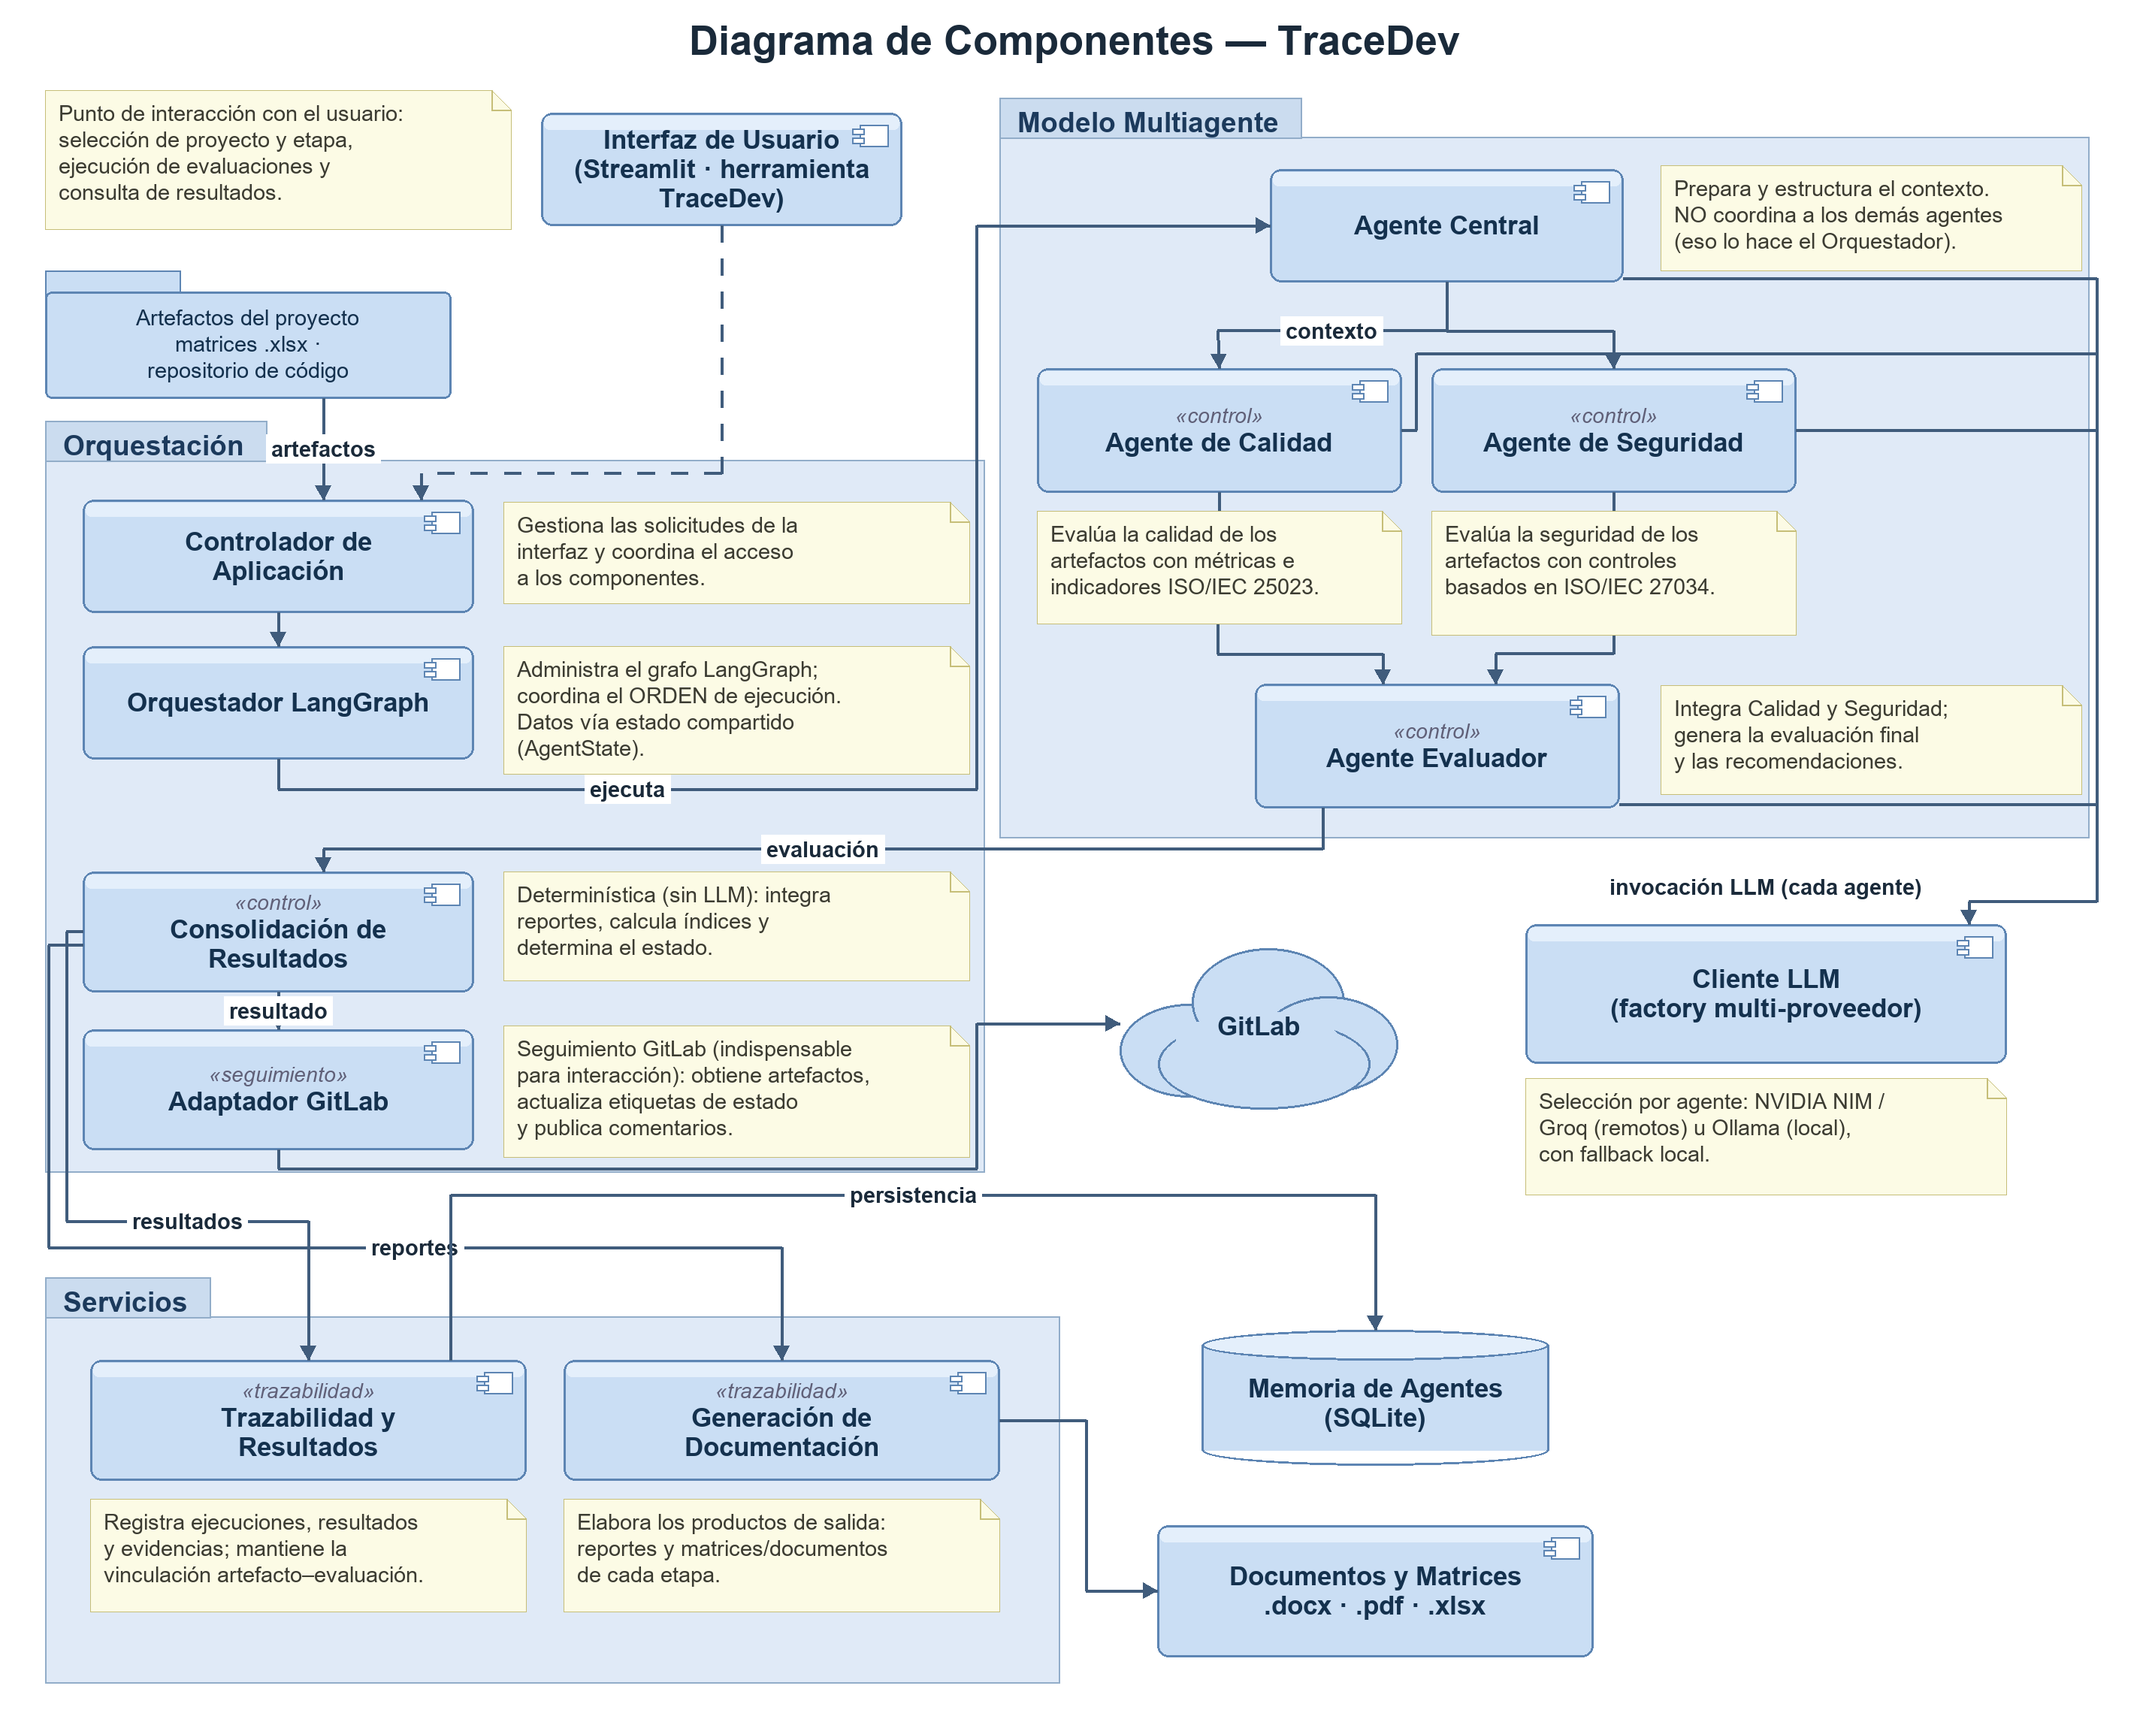
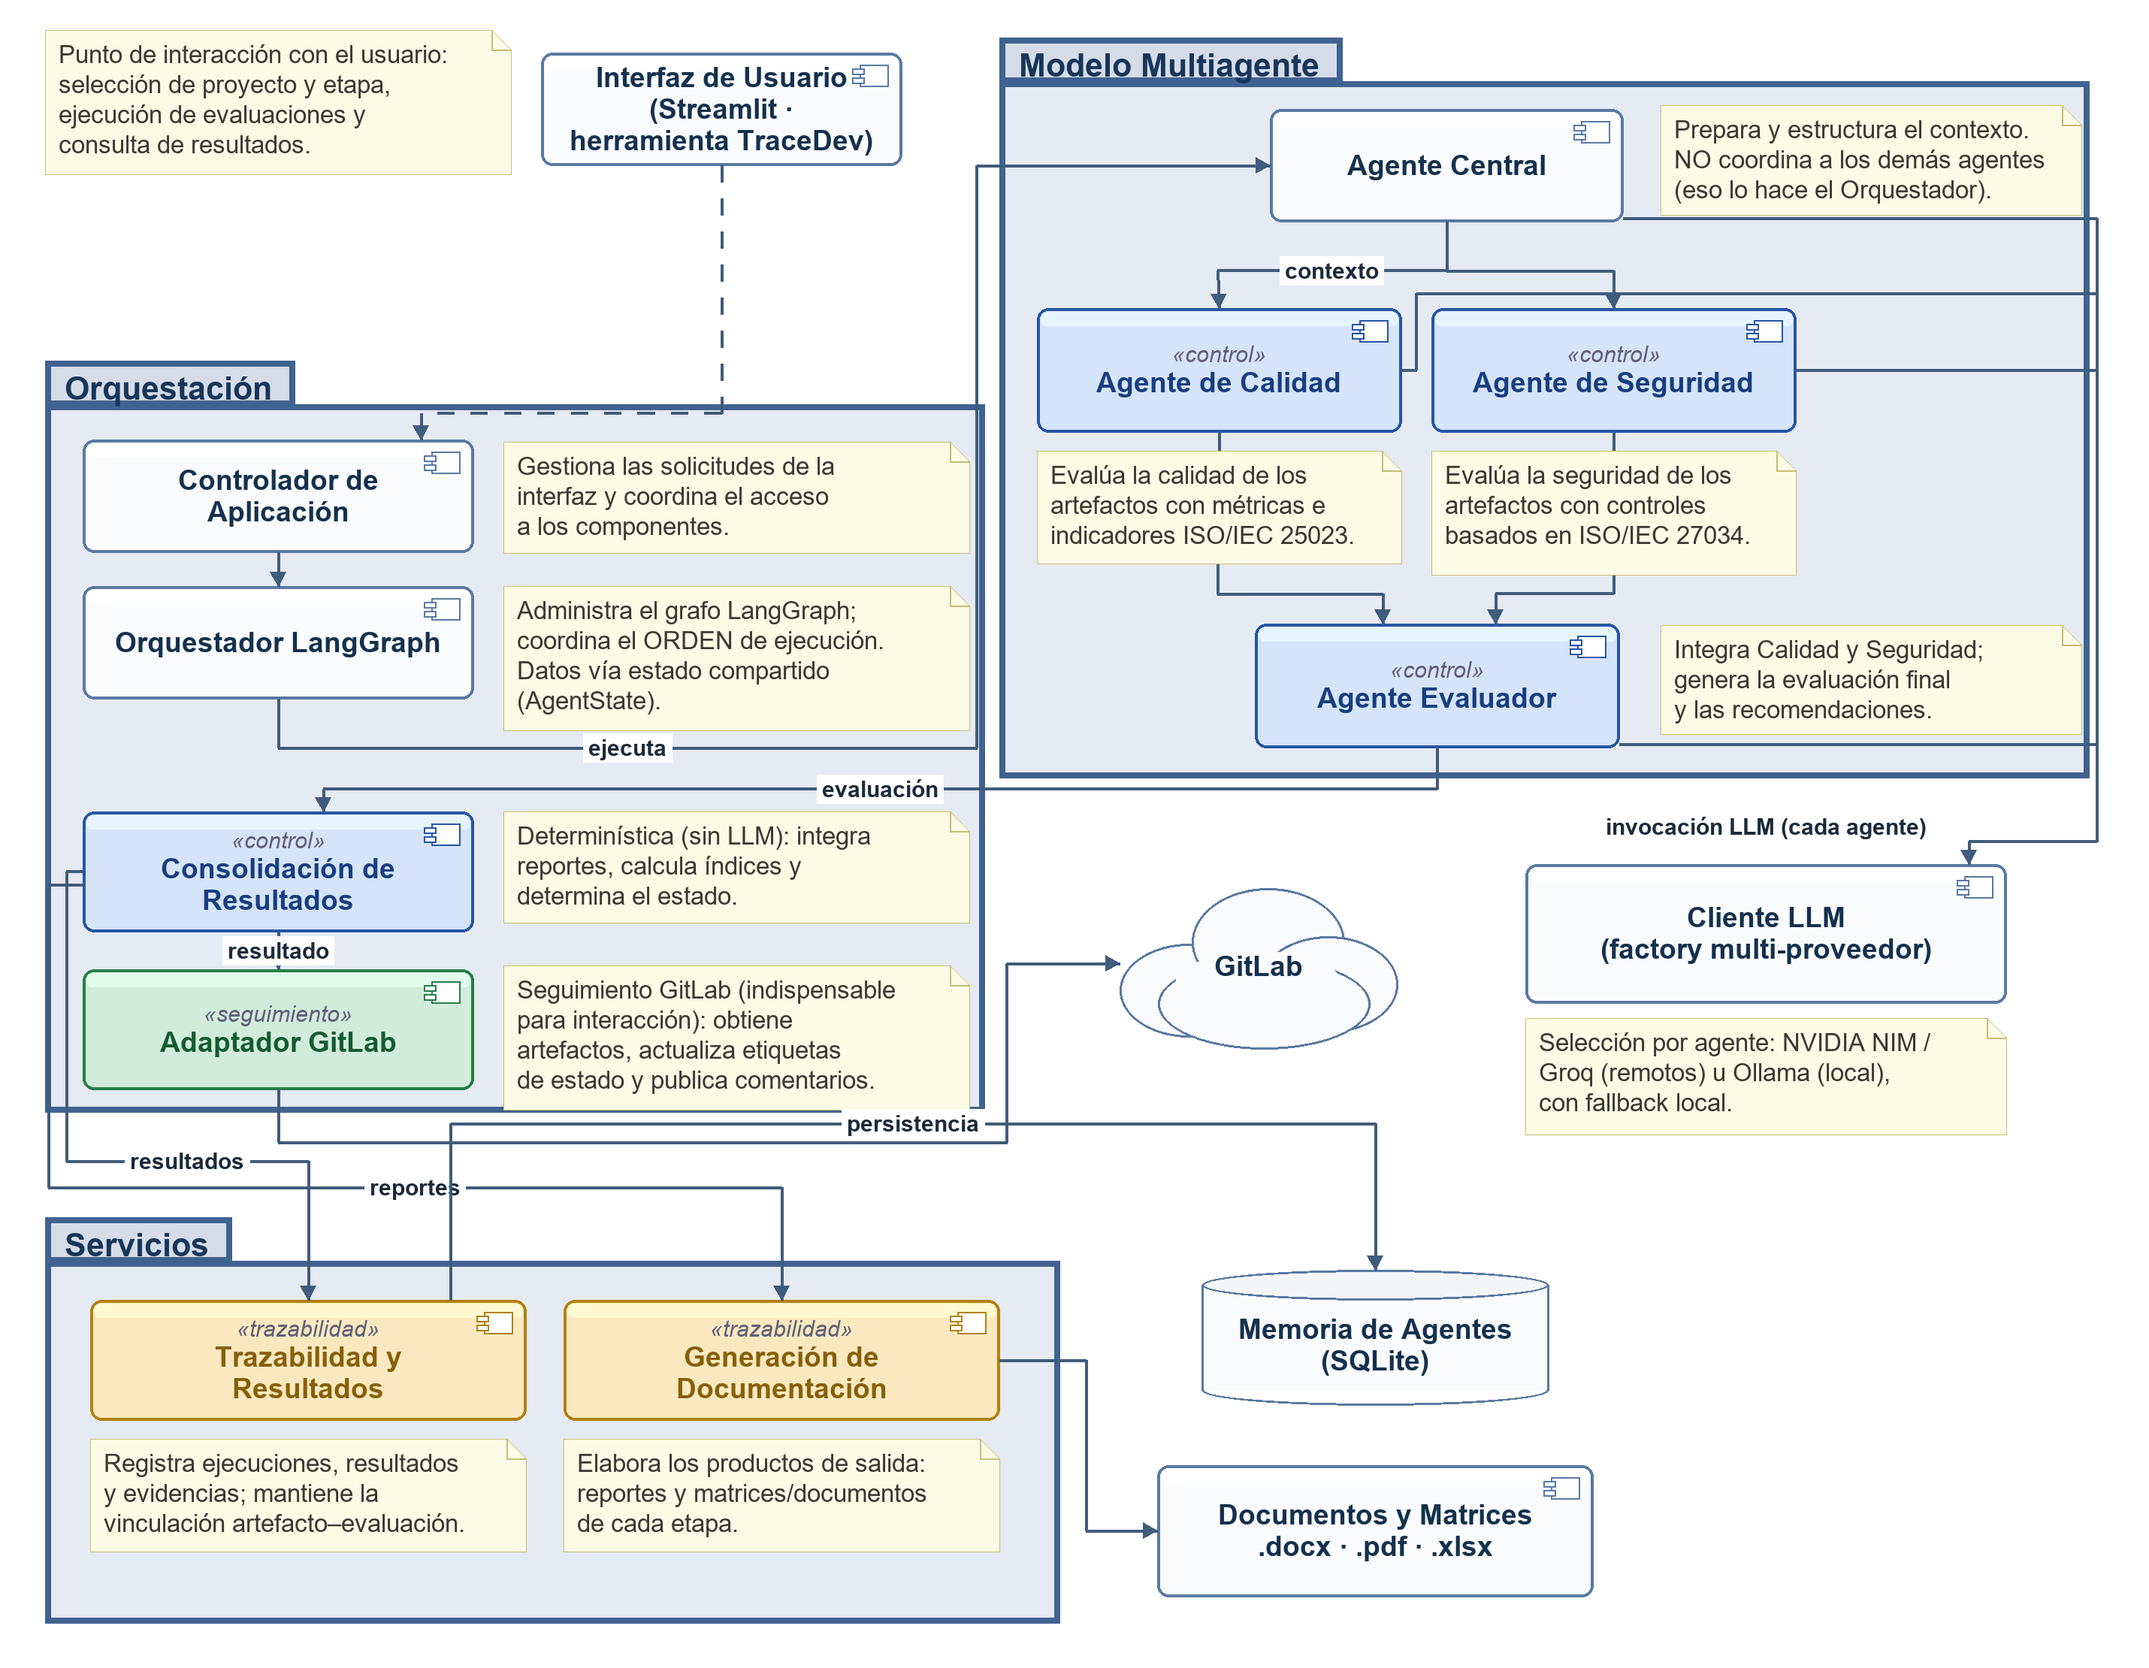
antes de login

diff --git a/core/ui_theme.py b/core/ui_theme.py
@@ -1002,7 +1002,7 @@ def render_brand_header(entity_logo_path: str | Path, tool_logo_path: str | Path
             </div>
             <div class="nexo-hero-divider" aria-hidden="true"></div>
             <div class="nexo-product">
-                <div class="nexo-product-kicker">Plataforma multiagente</div>
+                <div class="nexo-product-kicker">Herramienta multiagente</div>
                 <img src="{tool_logo}" alt="TraceDev — Desarrollo, trazabilidad y decisión">
                 <p>Proceso adaptativo para el desarrollo y la trazabilidad de software.</p>
             </div>
@@ -1038,7 +1038,7 @@ def render_sidebar_brand(tool_logo_path: str | Path, project_config: dict) -> No
         f"""
         <div class="nexo-sidebar-brand">
             <img src="{tool_logo}" alt="TraceDev">
-            <p>Sistema Multiagente<br>Control y seguimiento del Desarrollo de Software</p>
+            <p>Herramienta Multiagente<br>Control y seguimiento del Desarrollo de Software</p>
         </div>
         <div class="sidebar-section-label">Proyecto activo</div>
         <div class="sidebar-project-card">

diff --git a/app.py b/app.py
@@ -766,6 +766,12 @@ editing_config = st.session_state.get("editing_project_config", False)
 if saved_config is None or editing_config:
     st.subheader("Configuración del Proyecto")
     st.caption("Identifica el proyecto y valida la conexión con GitLab para habilitar las etapas.")
+    # Volver a las etapas sin reconfigurar (solo si ya hay proyecto). Únicamente cierra
+    # la edición; NO limpia el estado ni la persistencia de resultados.
+    if editing_config and saved_config is not None:
+        if st.button("← Volver a las etapas", key="volver_a_etapas"):
+            st.session_state["editing_project_config"] = False
+            st.rerun()
     defaults = saved_config or {}
     with st.form("project_configuration"):
         st.markdown("### Identificación")

diff --git a/core/coding_ui.py b/core/coding_ui.py
@@ -880,8 +880,8 @@ def render_coding_stage(project_name: str, project_config: dict, adapter) -> Non
                 st.markdown(f"**Implementados:** {', '.join(implementados) if implementados else 'Ninguno.'}")
                 st.markdown(f"**Declarados sin confirmar:** {', '.join(no_confirmados) if no_confirmados else 'Ninguno.'}")
 
-    # ---- Matriz de Trazabilidad Evolucionada ----
-    with artefactos.expander("Matriz de Trazabilidad Evolucionada", expanded=False):
+    # ---- Matriz de Trazabilidad de la etapa ----
+    with artefactos.expander("Matriz de Trazabilidad de la etapa", expanded=False):
         import pandas as pd
         columnas_trz = [
             "HU origen", "Código requisito", "Tipo", "Nombre del requisito",

diff --git a/core/design_ui.py b/core/design_ui.py
@@ -784,8 +784,8 @@ def render_design_stage(project_name: str, project_config: dict, adapter) -> Non
                 st.markdown(f"**Cubiertos:** {', '.join(cubiertos) if cubiertos else 'Ninguno.'}")
                 st.markdown(f"**Pendientes de relación:** {', '.join(pendientes_trz) if pendientes_trz else 'Ninguno.'}")
 
-    # ---- Matriz de Trazabilidad Evolucionada ----
-    with artefactos.expander("Matriz de Trazabilidad Evolucionada", expanded=False):
+    # ---- Matriz de Trazabilidad de la etapa ----
+    with artefactos.expander("Matriz de Trazabilidad de la etapa", expanded=False):
         import pandas as pd
         columnas_trz = [
             "HU origen", "Código requisito", "Tipo", "Nombre del requisito",

diff --git a/core/testing_ui.py b/core/testing_ui.py
@@ -523,8 +523,8 @@ def render_testing_stage(project_name: str, project_config: dict, adapter) -> No
                 else:
                     st.info("Sin trazabilidad heredada resuelta.")
 
-    # ---- Matriz de Trazabilidad Evolucionada ----
-    with artefactos.expander("Matriz de Trazabilidad Evolucionada — Pruebas", expanded=False):
+    # ---- Matriz de Trazabilidad de la etapa ----
+    with artefactos.expander("Matriz de Trazabilidad de la etapa — Pruebas", expanded=False):
         import pandas as pd
         columnas_trz = [
             "HU origen", "Código requisito", "Tipo", "Nombre del requisito",

diff --git a/integrations/gitlab_adapter.py b/integrations/gitlab_adapter.py
@@ -41,7 +41,7 @@ def es_issue_pendiente(issue) -> bool:
 class GitLabAdapter:
     """
     Clase responsable únicamente de comunicarse con la API de GitLab.
-    No contiene lógica de negocio del sistema multiagente.
+    No contiene lógica de negocio de la herramienta multiagente.
     """
     def __init__(self, url: str = None, token: str = None, project_id: str = None):
         self.url = url or os.getenv("GITLAB_URL")

diff --git a/README.md b/README.md
@@ -1,6 +1,6 @@
 # Modelo Multiagente Dev
 
-Sistema multiagente para evaluación de código basado en LangGraph, LangChain y Ollama.
+Herramienta multiagente para evaluación de código basado en LangGraph, LangChain y Ollama.
 
 ## Arquitectura
 

diff --git a/docs/performance_audit.md b/docs/performance_audit.md
@@ -1,4 +1,4 @@
-# Auditoria de Rendimiento del Sistema Multiagente
+# Auditoria de Rendimiento de la Herramienta Multiagente
 
 Fecha de auditoria: 2026-07-08  
 Proyecto auditado: `modelo-multiagente-dev`  
